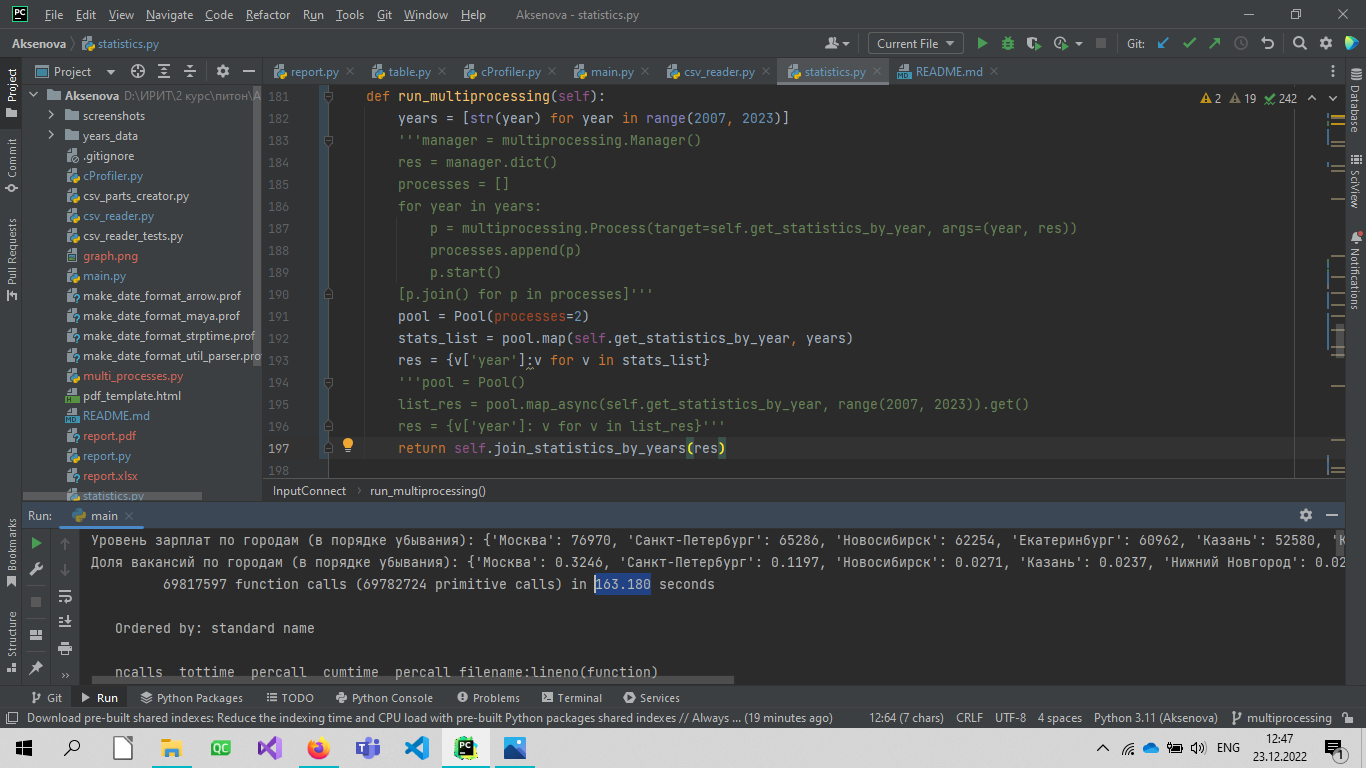
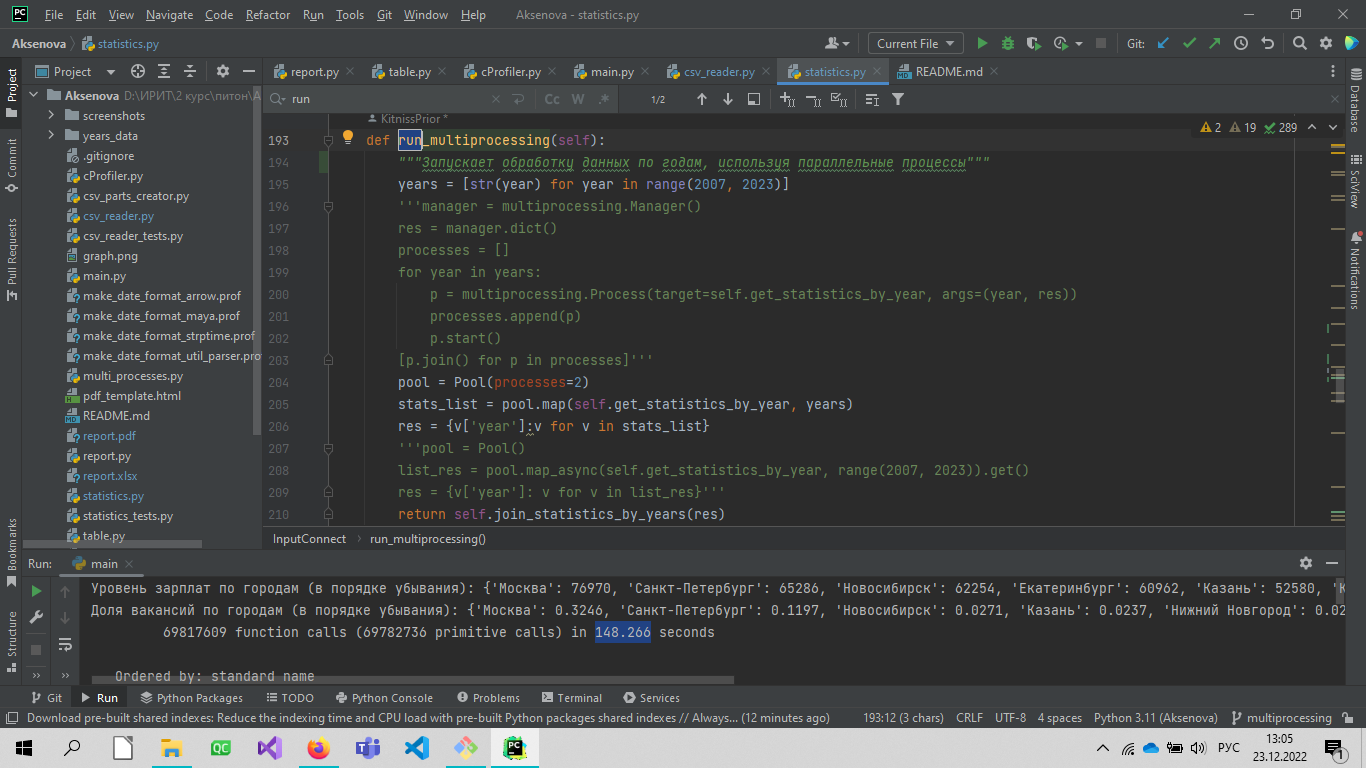
run multiprocessing

diff --git a/statistics.py b/statistics.py
@@ -146,6 +146,14 @@ class InputConnect:
         return int(sum_salaries // len(vacancies))
 
     def join_statistics_by_years(self, data_dict):
+        """Объединяет данные статистики по годам
+
+            Args:
+                data_dict (dict) : словарь с данными статистики
+            Returns:
+                dict: уровень зарплат по годам для всех вакансий и для выбранной профессии,
+                количество вакансий по годам для всех вакансий и для выбранной профессии
+        """
         sorted(data_dict.items())
         salary_all = {}
         number_all = {}
@@ -163,15 +171,19 @@ class InputConnect:
                 'number_job': number_job}
 
     def get_statistics_by_year(self, year):
+        """Получает количество вакансий и уровень зарплат для всех вакансий
+        и для выбранной профессии за один год
+
+            Args:
+                year (string) : год
+            Returns:
+                dict: количество вакансий и уровень зарплат для всех вакансий
+        и для выбранной профессии за один год
+        """
         file_path = f"{self.data_set.folder_name}/{year}.csv"
         rows,titles = reader.csv_reader(file_path)
         vac_list = reader.csv_filer(rows, titles, self.data_set.create_vacancy)
         job_list = list(filter(lambda vac: self.job in vac.name, vac_list))
-
-        '''stats_dict[year] = {'salary_all': self.get_salary_by_age(vac_list),
-                           'number_all': len(vac_list),
-                           'salary_job': self.get_salary_by_age(job_list),
-                           'number_job': len(job_list),}'''
         return {'year': year,
                 'salary_all': self.get_salary_by_age(vac_list),
                 'number_all': len(vac_list),
@@ -179,6 +191,7 @@ class InputConnect:
                 'number_job': len(job_list),}
 
     def run_multiprocessing(self):
+        """Запускает обработку данных по годам, используя параллельные процессы"""
         years = [str(year) for year in range(2007, 2023)]
         '''manager = multiprocessing.Manager()
         res = manager.dict()

diff --git a/csv_reader.py b/csv_reader.py
@@ -51,17 +51,3 @@ def csv_filer(rows, titles, create_vacancy):
         result.append(create_vacancy(vacancy_dict))
     return result
 
-def csv_filter(rows, titles, create_vacancy):
-    result = []
-    for row in rows:
-        vac_dict = {}
-        for i in range(len(row)):
-            field = clear_str(row[i])
-            if field.find("\n") != -1:
-                field = field.split('\n')
-                field = [' '.join(x.split()) for x in field]
-            else:
-                field = ' '.join(field.split())
-            vac_dict[titles[i]] = field
-        result.append(create_vacancy(vac_dict))
-    return result
